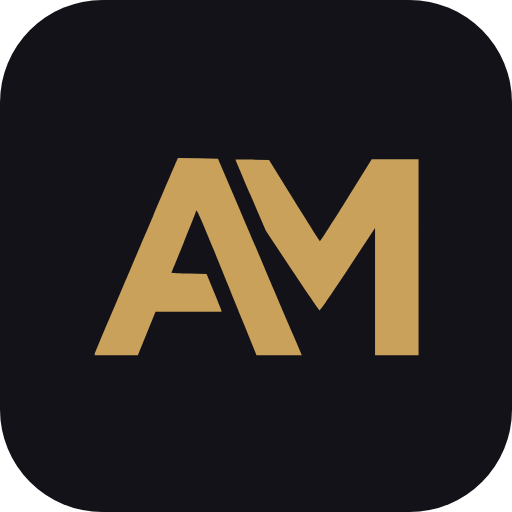
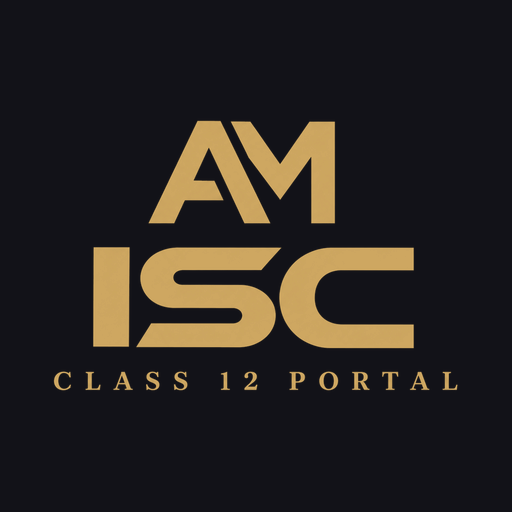
Add files via upload

diff --git a/index.html b/index.html
@@ -37,7 +37,7 @@
     <link rel="dns-prefetch" href="https://script.google.com">
     <link rel="preload" href="fonts/fraunces-italic.woff2" as="font" type="font/woff2" crossorigin>
     <link rel="preload" href="fonts/archivo.woff2" as="font" type="font/woff2" crossorigin>
-    <link rel="stylesheet" href="style.css?v=56">
+    <link rel="stylesheet" href="style.css?v=57">
     <link rel="icon" type="image/svg+xml" href="favicon.svg">
     <link rel="icon" type="image/png" sizes="32x32" href="favicon-32.png">
     <link rel="icon" type="image/png" sizes="16x16" href="favicon-16.png">
@@ -87,7 +87,7 @@
         <span class="gate__spine">ISC · Class XII · Study Index</span>
 
         <div class="gate__content">
-            <div class="am-lock am-lock--gate"><svg class="am-mark am-mark--gate" aria-hidden="true"><use href="#am-mark" xlink:href="#am-mark"></use></svg><span class="am-lock__t">ISC Class 12 Portal</span></div>
+            <img class="am-mark am-mark--gate" src="logo-full.png" alt="AM — ISC Class 12 Portal" width="560" height="376">
             <p class="gate__eyebrow">Welcome to</p>
             <h1 class="gate__title">Class 12</h1>
             <div class="gate__divider"></div>
@@ -173,7 +173,7 @@
         <nav class="nav">
             <div class="nav__inner">
                 <button class="nav__logo" id="homeBtn">
-                    <span class="am-lock am-lock--nav"><svg class="am-mark am-mark--nav" aria-hidden="true"><use href="#am-mark" xlink:href="#am-mark"></use></svg><span class="am-lock__t">ISC Class 12 Portal</span></span>
+                    <img class="am-mark am-mark--nav" src="logo-mark.png" alt="ISC Class 12 Portal" width="58" height="41">
                 </button>
                 <div class="nav__right">
                     <a class="nav__contact nav__contact--wa" href="https://wa.me/917405806352" target="_blank" rel="noopener" aria-label="Contact on WhatsApp" title="WhatsApp">
@@ -212,7 +212,7 @@
         <footer class="foot">
             <p>Made with care for exam season</p>
             <p class="foot__credit">
-                <svg class="am-mark am-mark--foot" aria-hidden="true"><use href="#am-mark" xlink:href="#am-mark"></use></svg>
+                <img class="am-mark am-mark--foot" src="logo-am.png" alt="">
                 Designed by AM
             </p>
             <p class="foot__legal"><a href="terms.html">Terms</a> &middot; <a href="privacy.html">Privacy</a> &middot; <a href="refund.html">Refund policy</a></p>
@@ -266,7 +266,7 @@
         <div class="pay__overlay" id="payOverlay"></div>
         <div class="pay__panel">
             <header class="pay__top">
-                <span class="pay__brand am-lock am-lock--pay"><svg class="am-mark" width="26" height="17" aria-hidden="true"><use href="#am-mark" xlink:href="#am-mark"></use></svg><span class="am-lock__t">ISC Class 12 Portal</span></span>
+                <span class="pay__brand"><img class="am-mark am-mark--paylogo" src="logo-mark.png" alt="ISC Class 12 Portal" width="52" height="37"></span>
                 <span class="pay__secure"><svg width="12" height="12" viewBox="0 0 24 24" fill="none" stroke="currentColor" stroke-width="2" stroke-linecap="round" stroke-linejoin="round" aria-hidden="true"><rect x="4" y="11" width="16" height="10" rx="2"/><path d="M8 11V8a4 4 0 0 1 8 0v3"/></svg> Secure sign-up</span>
                 <button type="button" class="pay__close" id="payClose" aria-label="Close">&times;</button>
             </header>
@@ -429,9 +429,9 @@
                     <button id="viewerThumbToggle" class="viewer__btn viewer__btn--pages" aria-label="Page thumbnails" title="Pages">
                         <svg width="15" height="15" viewBox="0 0 24 24" fill="none" stroke="currentColor" stroke-width="2" stroke-linecap="round" stroke-linejoin="round"><line x1="4" y1="7" x2="20" y2="7"/><line x1="4" y1="12" x2="20" y2="12"/><line x1="4" y1="17" x2="20" y2="17"/></svg>
                     </button>
-                    <svg class="am-mark am-mark--viewer" width="14" height="9" aria-hidden="true"><use href="#am-mark" xlink:href="#am-mark"></use></svg>
+                    <img class="am-mark am-mark--viewer" src="logo-am.png" alt="">
                     <div class="viewer__brand-text">
-                        <span class="viewer__credit">Prepared by <svg class="am-mark am-mark--credit" width="9" height="6" aria-hidden="true"><use href="#am-mark" xlink:href="#am-mark"></use></svg></span>
+                        <span class="viewer__credit">Prepared by <img class="am-mark am-mark--credit" src="logo-am.png" alt=""></span>
                         <span class="viewer__name" id="viewerName">Document.pdf</span>
                     </div>
                 </div>

diff --git a/practicals/chemistry/index.html b/practicals/chemistry/index.html
@@ -14,7 +14,7 @@
     <meta property="og:url" content="https://ad5253.github.io/isc/practicals/chemistry/">
     <meta property="og:image" content="https://ad5253.github.io/isc/og-image.png">
     <meta name="twitter:card" content="summary_large_image">
-    <link rel="stylesheet" href="../../style.css?v=56">
+    <link rel="stylesheet" href="../../style.css?v=57">
     <link rel="stylesheet" href="../../practicals/practicals.css?v=4">
     <link rel="icon" type="image/svg+xml" href="../../favicon.svg">
     <link rel="icon" type="image/png" sizes="32x32" href="../../favicon-32.png">
@@ -42,7 +42,7 @@
     <nav class="nav">
             <div class="nav__inner">
                 <a class="nav__logo" id="homeBtn" href="../../" aria-label="Back to the study portal">
-                    <span class="am-lock am-lock--nav"><svg class="am-mark am-mark--nav" aria-hidden="true"><use href="#am-mark" xlink:href="#am-mark"></use></svg><span class="am-lock__t">ISC Class 12 Portal</span></span>
+                    <img class="am-mark am-mark--nav" src="../../logo-mark.png" alt="ISC Class 12 Portal" width="58" height="41">
                 </a>
                 <div class="nav__right">
                     <a class="nav__contact nav__contact--wa" href="https://wa.me/917405806352" target="_blank" rel="noopener" aria-label="Contact on WhatsApp" title="WhatsApp">
@@ -85,7 +85,7 @@
     <footer class="foot">
             <p>Made with care for exam season</p>
             <p class="foot__credit">
-                <svg class="am-mark am-mark--foot" aria-hidden="true"><use href="#am-mark" xlink:href="#am-mark"></use></svg>
+                <img class="am-mark am-mark--foot" src="../../logo-am.png" alt="">
                 Designed by AM
             </p>
             <div class="foot__contact">

diff --git a/practicals/physics/index.html b/practicals/physics/index.html
@@ -14,7 +14,7 @@
     <meta property="og:url" content="https://ad5253.github.io/isc/practicals/physics/">
     <meta property="og:image" content="https://ad5253.github.io/isc/og-image.png">
     <meta name="twitter:card" content="summary_large_image">
-    <link rel="stylesheet" href="../../style.css?v=56">
+    <link rel="stylesheet" href="../../style.css?v=57">
     <link rel="stylesheet" href="../../practicals/practicals.css?v=4">
     <link rel="icon" type="image/svg+xml" href="../../favicon.svg">
     <link rel="icon" type="image/png" sizes="32x32" href="../../favicon-32.png">
@@ -42,7 +42,7 @@
     <nav class="nav">
             <div class="nav__inner">
                 <a class="nav__logo" id="homeBtn" href="../../" aria-label="Back to the study portal">
-                    <span class="am-lock am-lock--nav"><svg class="am-mark am-mark--nav" aria-hidden="true"><use href="#am-mark" xlink:href="#am-mark"></use></svg><span class="am-lock__t">ISC Class 12 Portal</span></span>
+                    <img class="am-mark am-mark--nav" src="../../logo-mark.png" alt="ISC Class 12 Portal" width="58" height="41">
                 </a>
                 <div class="nav__right">
                     <a class="nav__contact nav__contact--wa" href="https://wa.me/917405806352" target="_blank" rel="noopener" aria-label="Contact on WhatsApp" title="WhatsApp">
@@ -85,7 +85,7 @@
     <footer class="foot">
             <p>Made with care for exam season</p>
             <p class="foot__credit">
-                <svg class="am-mark am-mark--foot" aria-hidden="true"><use href="#am-mark" xlink:href="#am-mark"></use></svg>
+                <img class="am-mark am-mark--foot" src="../../logo-am.png" alt="">
                 Designed by AM
             </p>
             <div class="foot__contact">

diff --git a/practicals/index.html b/practicals/index.html
@@ -14,7 +14,7 @@
     <meta property="og:url" content="https://ad5253.github.io/isc/practicals/">
     <meta property="og:image" content="https://ad5253.github.io/isc/og-image.png">
     <meta name="twitter:card" content="summary_large_image">
-    <link rel="stylesheet" href="../style.css?v=56">
+    <link rel="stylesheet" href="../style.css?v=57">
     <link rel="stylesheet" href="../practicals/practicals.css?v=4">
     <link rel="icon" type="image/svg+xml" href="../favicon.svg">
     <link rel="icon" type="image/png" sizes="32x32" href="../favicon-32.png">
@@ -42,7 +42,7 @@
     <nav class="nav">
             <div class="nav__inner">
                 <a class="nav__logo" id="homeBtn" href="../" aria-label="Back to the study portal">
-                    <span class="am-lock am-lock--nav"><svg class="am-mark am-mark--nav" aria-hidden="true"><use href="#am-mark" xlink:href="#am-mark"></use></svg><span class="am-lock__t">ISC Class 12 Portal</span></span>
+                    <img class="am-mark am-mark--nav" src="../logo-mark.png" alt="ISC Class 12 Portal" width="58" height="41">
                 </a>
                 <div class="nav__right">
                     <a class="nav__contact nav__contact--wa" href="https://wa.me/917405806352" target="_blank" rel="noopener" aria-label="Contact on WhatsApp" title="WhatsApp">
@@ -96,7 +96,7 @@
     <footer class="foot">
             <p>Made with care for exam season</p>
             <p class="foot__credit">
-                <svg class="am-mark am-mark--foot" aria-hidden="true"><use href="#am-mark" xlink:href="#am-mark"></use></svg>
+                <img class="am-mark am-mark--foot" src="../logo-am.png" alt="">
                 Designed by AM
             </p>
             <div class="foot__contact">

diff --git a/style.css b/style.css
@@ -3750,3 +3750,14 @@ html.fonts-ready .am-lock--gate .am-lock__t { animation-play-state:running; }
 
 .am-mark--gate, .am-mark--nav { aspect-ratio: 276 / 177; }
 .am-lock--gate .am-mark--gate { height:auto; }
+
+
+/* ── New logo (images) ── */
+img.am-mark { display:inline-block; height:auto; object-fit:contain; }
+img.am-mark--nav { width:56px; height:auto; margin:0 8px 0 0; vertical-align:middle; aspect-ratio:auto; }
+img.am-mark--gate { display:block; width:clamp(170px,46vw,250px); height:auto; margin:0 0 22px; aspect-ratio:auto; }
+img.am-mark--paylogo { width:50px; height:auto; display:block; }
+img.am-mark--foot { width:16px; height:auto; margin-right:6px; vertical-align:-2px; opacity:.8; }
+img.am-mark--viewer { width:16px; height:auto; flex-shrink:0; }
+img.am-mark--credit { width:10px; height:auto; vertical-align:-1px; flex-shrink:0; }
+@media (max-width:640px){ img.am-mark--gate { width:clamp(150px,52vw,210px); margin-bottom:18px; } img.am-mark--viewer { width:16px; height:auto; } }

diff --git a/sw.js b/sw.js
@@ -11,7 +11,7 @@ var OFFLINE_URL = "offline.html";
 
 self.addEventListener("install", function (e) {
   e.waitUntil(caches.open(STATIC).then(function (c) {
-    return Promise.all([OFFLINE_URL, "icon-192.png", "favicon.svg"].map(function (u) { return c.add(u).catch(function () {}); }));
+    return Promise.all([OFFLINE_URL, "icon-192.png", "favicon.svg","logo-mark.png"].map(function (u) { return c.add(u).catch(function () {}); }));
   }).then(function () { return self.skipWaiting(); }));
 });
 
